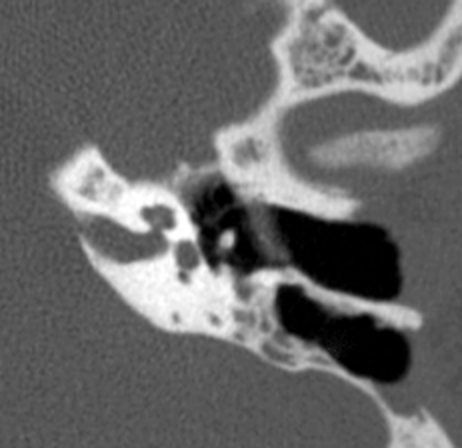
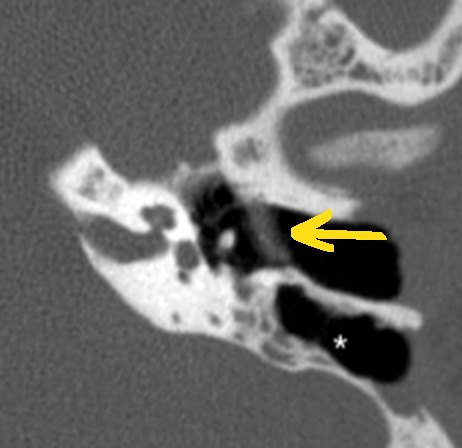
Cholestéatome : BDE zone la plus fragile, technique ouverte (micro-caisse, cavité d'évidement), tracés de l'auteur pour technique fermée, plastie et extension CSC/tegmen
Claude-Session: https://claude.ai/code/session_01XRUNcZaE25We66fu1uYoPm

Changed region(s): [[0.6061, 0.4688, 0.8485, 0.5625], [0.697, 0.75, 0.7576, 0.7812]]

diff --git a/fiches/cholesteatome.html b/fiches/cholesteatome.html
@@ -12,7 +12,7 @@
   <link rel="stylesheet" href="../styles.css?v=20261022235000">
   <link rel="stylesheet" href="../fiche.css?v=20261012150000">
   <link rel="stylesheet" href="../schemas/cavum.css?v=20261024100000">
-  <link rel="stylesheet" href="../schemas/cholesteatome.css?v=20261026120000">
+  <link rel="stylesheet" href="../schemas/cholesteatome.css?v=20261026200000">
   <script type="importmap">{ "imports": { "three": "../vendor/three-0.170.0/three.module.min.js", "three/addons/": "../vendor/three-0.170.0/addons/" } }</script>
 </head>
 <body class="fiche-page">
@@ -248,8 +248,12 @@
             <!-- FIG:omc-chaine-noyee|Chaîne ossiculaire « noyée » : même densité que l'épanchement ou la muqueuse épaissie. --><figure class="ch-fig"><svg viewBox="0 0 257 234" role="img" aria-label="Chaîne ossiculaire « noyée » : même densité que l&#x27;épanchement ou la muqueuse épaissie." font-family="Montserrat, Arial, sans-serif"><image href="cholesteatome/images/omc-chaine-noyee.jpg" width="257" height="234"/></svg><figcaption>Chaîne ossiculaire « noyée » : même densité que l'épanchement ou la muqueuse épaissie.</figcaption></figure><!-- /FIG -->
             <!-- FIG:tympanosclerose|Tympanosclérose : plaques pseudo-cartilagineuses ± calcifiées, ankylose possible de la chaîne. --><figure class="ch-fig" data-traces><svg viewBox="0 0 317 326" role="img" aria-label="Tympanosclérose : plaques calcifiées sur la chaîne et les parois de la caisse" font-family="Montserrat, Arial, sans-serif"><image href="cholesteatome/images/tympanosclerose.jpg" width="317" height="326"/><g class="ch-traces"><circle cx="106" cy="114" r="30" fill="none" stroke="#000" stroke-opacity=".5" stroke-width="4.2"/><circle cx="106" cy="114" r="30" fill="none" stroke="#c8102e" stroke-width="2.2"/><circle cx="118" cy="157" r="21" fill="none" stroke="#000" stroke-opacity=".5" stroke-width="4.2"/><circle cx="118" cy="157" r="21" fill="none" stroke="#f2ab2f" stroke-width="2.2"/><circle cx="178" cy="169" r="21" fill="none" stroke="#000" stroke-opacity=".5" stroke-width="4.2"/><circle cx="178" cy="169" r="21" fill="none" stroke="#3c67b8" stroke-width="2.2"/><text x="150" y="312" font-size="13" font-weight="800" fill="#fff" stroke="#000" stroke-width="3" paint-order="stroke" text-anchor="middle">plaques calcifiées</text></g></svg><figcaption>Tympanosclérose : plaques pseudo-cartilagineuses ± calcifiées, ankylose possible de la chaîne.</figcaption></figure><!-- /FIG -->
           </div>
-          <div class="callout callout-warn">
-            <p><mark class="k-ddx">La longue apophyse de l'enclume</mark> est la zone la plus fragile : elle peut être lysée <b>même dans une OMC non cholestéatomateuse</b>.</p>
+          <div class="ch-bde">
+            <div class="callout callout-warn"><p class="nodes-title">Information capitale</p><p><mark class="k-grave">BDE (branche descendante de l'enclume) : zone la plus fragile.</mark> Elle est atteinte <b>même en cas d'OMC non cholestéatomateuse</b> : une lyse de la BDE ne suffit pas à affirmer un cholestéatome.</p></div>
+            <div class="ch-figs ch-figs-2">
+              <!-- FIG:bde-pre-lyse|Involution fibreuse de la BDE (pré-lyse). --><figure class="ch-fig"><svg viewBox="0 0 298 227" role="img" aria-label="Involution fibreuse de la BDE (pré-lyse)." font-family="Montserrat, Arial, sans-serif"><image href="cholesteatome/images/bde-pre-lyse.jpg" width="298" height="227"/></svg><figcaption>Involution fibreuse de la BDE (pré-lyse).</figcaption></figure><!-- /FIG -->
+              <!-- FIG:bde-discontinuite|Discontinuité entre l'arche stapédienne et la BDE. --><figure class="ch-fig"><svg viewBox="0 0 213 169" role="img" aria-label="Discontinuité entre l&#x27;arche stapédienne et la BDE." font-family="Montserrat, Arial, sans-serif"><image href="cholesteatome/images/bde-discontinuite.jpg" width="213" height="169"/></svg><figcaption>Discontinuité entre l'arche stapédienne et la BDE.</figcaption></figure><!-- /FIG -->
+            </div>
           </div>
         </section>
 
@@ -330,7 +334,7 @@
           </div>
           <div class="ch-risque">
             <div class="ch-risque-txt"><h3>Tegmen tympani et antri</h3><p>Une brèche doit être vue sur <b>plusieurs coupes contiguës</b>, <b>au contact</b> de la masse, et <b>comparée au côté opposé</b>. Vraie brèche : <mark class="k-grave">méningocèle</mark>, réaction méningée, complication intracrânienne.</p></div>
-            <div class="ch-figs ch-figs-1"><!-- FIG:tegmen-tdm-2|Lyse du tegmen. --><figure class="ch-fig" data-traces><svg viewBox="0 0 208 108" role="img" aria-label="Lyse du tegmen" font-family="Montserrat, Arial, sans-serif"><image href="cholesteatome/images/tegmen-tdm-2.jpg" width="208" height="108"/><g class="ch-traces"><path d="M55.0 22.0 L66.0 23.0 L78.0 24.0" fill="none" stroke="#000" stroke-opacity=".5" stroke-width="5" stroke-linejoin="round" stroke-linecap="round"/><path d="M55.0 22.0 L66.0 23.0 L78.0 24.0" fill="none" stroke="#3c67b8" stroke-width="3" stroke-linejoin="round" stroke-linecap="round"/><g><rect x="29.9" y="0.0" width="80.2" height="16.0" rx="8.0" fill="#3c67b8" stroke="#fff" stroke-width="1.2"/><text x="70" y="11.6" font-size="10" font-weight="800" fill="#fff" text-anchor="middle">tegmen lysé</text></g></g></svg><figcaption>Lyse du tegmen.</figcaption></figure><!-- /FIG --></div>
+            <div class="ch-figs ch-figs-1"><!-- FIG:tegmen-tdm-2|Lyse du tegmen. --><figure class="ch-fig" data-traces><svg viewBox="0 0 208 108" role="img" aria-label="Extension au tegmen (tracé de l&#x27;auteur)" font-family="Montserrat, Arial, sans-serif"><image href="cholesteatome/images/tegmen-tdm-2.jpg" width="208" height="108"/><g class="ch-traces"><path d="M94.2 21.5 L95.9 21.6 L98.2 21.2 L100.6 21.0 L103.0 21.1 L105.2 21.1 L107.3 21.4 L109.5 22.0 L112.0 22.4 L114.4 22.8 L116.2 23.0 L117.6 23.1 L119.3 22.9 L121.3 22.9 L123.0 23.0" fill="none" stroke="#000" stroke-opacity=".5" stroke-width="5" stroke-linejoin="round" stroke-linecap="round"/><path d="M94.2 21.5 L95.9 21.6 L98.2 21.2 L100.6 21.0 L103.0 21.1 L105.2 21.1 L107.3 21.4 L109.5 22.0 L112.0 22.4 L114.4 22.8 L116.2 23.0 L117.6 23.1 L119.3 22.9 L121.3 22.9 L123.0 23.0" fill="none" stroke="#3c67b8" stroke-width="3" stroke-linejoin="round" stroke-linecap="round"/><g><rect x="43.1" y="1.0" width="129.8" height="16.0" rx="8.0" fill="#3c67b8" stroke="#fff" stroke-width="1.2"/><text x="108" y="12.6" font-size="10" font-weight="800" fill="#fff" text-anchor="middle">extension au tegmen</text></g></g></svg><figcaption>Lyse du tegmen.</figcaption></figure><!-- /FIG --></div>
           </div>
           <div class="ch-risque">
             <div class="ch-risque-txt"><h3>Labyrinthe : fistule</h3><p>Disparition de la coque osseuse au contact du cholestéatome, surtout du <mark class="k-grave">canal semi-circulaire latéral</mark> (labyrinthe membraneux à nu). Préciser le canal et la longueur. IRM : amputation du signal liquidien en T2 ; <b>rehaussement</b> = labyrinthite. Un <b>vertige</b> justifie l'IRM même si la TDM est douteuse.</p></div>
@@ -417,8 +421,8 @@
         <section class="fsec" id="post-op" style="--c: var(--plum)">
           <h2 class="fsec-title"><span class="fnum">X</span>Après chirurgie</h2>
           <div class="ch-deux">
-            <div class="fcard"><h3>Technique fermée</h3><p>Cholestéatome limité. Abord mastoïdien postérieur, <b>paroi postérieure et supérieure du conduit conservée</b>, greffe tympanique souvent cartilagineuse. Résidu possible : <b>surveillance</b>.</p><div class="ch-figs ch-figs-2"><!-- FIG:technique-fermee-1|Technique fermée. --><figure class="ch-fig" data-traces><svg viewBox="0 0 231 224" role="img" aria-label="Tympanoplastie en technique fermée" font-family="Montserrat, Arial, sans-serif"><image href="cholesteatome/images/technique-fermee-1.jpg" width="231" height="224"/><g class="ch-traces"><path d="M170.0 165.0 L171.6 168.8 L175.7 169.1 L172.6 171.8 L173.5 175.9 L170.0 173.7 L166.5 175.9 L167.4 171.8 L164.3 169.1 L168.4 168.8Z" fill="#f2ab2f" stroke="#000" stroke-opacity=".6" stroke-width="1"/><g><rect x="97.5" y="202.0" width="105.0" height="16.0" rx="8.0" fill="#f2ab2f" stroke="#fff" stroke-width="1.2"/><text x="150" y="213.6" font-size="10" font-weight="800" fill="#fff" text-anchor="middle">caisse ré-aérée</text></g></g></svg><figcaption>Technique fermée.</figcaption></figure><!-- /FIG --><!-- FIG:greffe-cartilage|Greffe cartilagineuse. --><figure class="ch-fig" data-traces><svg viewBox="0 0 274 230" role="img" aria-label="Greffe tympanique cartilagineuse" font-family="Montserrat, Arial, sans-serif"><image href="cholesteatome/images/greffe-cartilage.jpg" width="274" height="230"/><g class="ch-traces"><path d="M96.0 52.0 L87.9 81.1" stroke="#000" stroke-opacity=".55" stroke-width="4.6" stroke-linecap="round" fill="none"/><path d="M96.0 52.0 L87.9 81.1" stroke="#f2ab2f" stroke-width="2.4" stroke-linecap="round" fill="none"/><path d="M86.0 88.0 L84.4 79.1 L91.9 81.2Z" fill="#f2ab2f" stroke="#000" stroke-opacity=".55" stroke-width="1"/></g></svg><figcaption>Greffe cartilagineuse.</figcaption></figure><!-- /FIG --></div></div>
-            <div class="fcard"><h3>Technique ouverte</h3><p>Cholestéatome étendu. <b>Cavité d'évidement pétro-mastoïdienne</b> (paroi du conduit enlevée), souvent avec micro-caisse.</p><div class="ch-figs ch-figs-2"><!-- FIG:technique-ouverte-1|Cavité d'évidement. --><figure class="ch-fig"><svg viewBox="0 0 229 217" role="img" aria-label="Cavité d&#x27;évidement." font-family="Montserrat, Arial, sans-serif"><image href="cholesteatome/images/technique-ouverte-1.jpg" width="229" height="217"/></svg><figcaption>Cavité d'évidement.</figcaption></figure><!-- /FIG --><!-- FIG:ossiculoplastie|Ossiculoplastie. --><figure class="ch-fig" data-traces><svg viewBox="0 0 227 123" role="img" aria-label="Ossiculoplastie : prothèse entre tympan et étrier" font-family="Montserrat, Arial, sans-serif"><image href="cholesteatome/images/ossiculoplastie.jpg" width="227" height="123"/><g class="ch-traces"><path d="M108.0 47.0 L122.0 50.0 L116.0 66.0 L108.0 82.0 L100.0 79.0 L104.0 62.0 Z" fill="none" stroke="#000" stroke-opacity=".5" stroke-width="4.6" stroke-linejoin="round" stroke-linecap="round"/><path d="M108.0 47.0 L122.0 50.0 L116.0 66.0 L108.0 82.0 L100.0 79.0 L104.0 62.0 Z" fill="none" stroke="#f18d25" stroke-width="2.6" stroke-linejoin="round" stroke-linecap="round"/><g><rect x="71.2" y="96.0" width="61.6" height="16.0" rx="8.0" fill="#f18d25" stroke="#fff" stroke-width="1.2"/><text x="102" y="107.6" font-size="10" font-weight="800" fill="#fff" text-anchor="middle">prothèse</text></g></g></svg><figcaption>Ossiculoplastie.</figcaption></figure><!-- /FIG --></div></div>
+            <div class="fcard"><h3>Technique fermée</h3><p>Cholestéatome limité. Abord mastoïdien postérieur, <b>paroi postérieure et supérieure du conduit conservée</b>, greffe tympanique souvent cartilagineuse. Résidu possible : <b>surveillance</b>.</p><div class="ch-figs ch-figs-2"><!-- FIG:technique-fermee-1|Technique fermée (axial) : paroi postérieure du conduit conservée (CAE), abord mastoïdien postérieur. --><figure class="ch-fig" data-traces><svg viewBox="0 0 231 224" role="img" aria-label="Technique fermée : paroi postérieure du conduit conservée, abord mastoïdien postérieur (flèche et tracés de l&#x27;auteur)" font-family="Montserrat, Arial, sans-serif"><image href="cholesteatome/images/technique-fermee-1.jpg" width="231" height="224"/><g class="ch-traces"><path d="M229.0 173.0 L218.9 162.3" stroke="#000" stroke-opacity=".55" stroke-width="4.6" stroke-linecap="round" fill="none"/><path d="M229.0 173.0 L218.9 162.3" stroke="#f2ab2f" stroke-width="2.4" stroke-linecap="round" fill="none"/><path d="M214.0 157.0 L222.4 160.2 L216.7 165.6Z" fill="#f2ab2f" stroke="#000" stroke-opacity=".55" stroke-width="1"/><path d="M229.0 208.0 L212.6 194.6" stroke="#000" stroke-opacity=".55" stroke-width="4.6" stroke-linecap="round" fill="none"/><path d="M229.0 208.0 L212.6 194.6" stroke="#d63f4c" stroke-width="2.4" stroke-linecap="round" fill="none"/><path d="M207.0 190.0 L215.8 192.1 L210.8 198.2Z" fill="#d63f4c" stroke="#000" stroke-opacity=".55" stroke-width="1"/><g><rect x="-3.6" y="192.0" width="111.2" height="16.0" rx="8.0" fill="#f2ab2f" stroke="#fff" stroke-width="1.2"/><text x="52" y="203.6" font-size="10" font-weight="800" fill="#fff" text-anchor="middle">CAE : postérieur</text></g><g><rect x="-9.8" y="206.0" width="123.6" height="16.0" rx="8.0" fill="#d63f4c" stroke="#fff" stroke-width="1.2"/><text x="52" y="217.6" font-size="10" font-weight="800" fill="#fff" text-anchor="middle">abord : postérieur</text></g></g></svg><figcaption>Technique fermée (axial) : paroi postérieure du conduit conservée (CAE), abord mastoïdien postérieur.</figcaption></figure><!-- /FIG --><!-- FIG:technique-fermee-2|Technique fermée (coronal) : greffe tympanique, paroi supérieure du conduit conservée. --><figure class="ch-fig" data-traces><svg viewBox="0 0 301 161" role="img" aria-label="Technique fermée, coronal : greffe tympanique, paroi supérieure conservée" font-family="Montserrat, Arial, sans-serif"><image href="cholesteatome/images/technique-fermee-2.jpg" width="301" height="161"/><g class="ch-traces"><path d="M297.0 47.0 L277.4 56.8" stroke="#000" stroke-opacity=".55" stroke-width="4.6" stroke-linecap="round" fill="none"/><path d="M297.0 47.0 L277.4 56.8" stroke="#d63f4c" stroke-width="2.4" stroke-linecap="round" fill="none"/><path d="M271.0 60.0 L276.5 52.9 L280.0 59.9Z" fill="#d63f4c" stroke="#000" stroke-opacity=".55" stroke-width="1"/><path d="M292.0 112.0 L260.8 100.5" stroke="#000" stroke-opacity=".55" stroke-width="4.6" stroke-linecap="round" fill="none"/><path d="M292.0 112.0 L260.8 100.5" stroke="#f2ab2f" stroke-width="2.4" stroke-linecap="round" fill="none"/><path d="M254.0 98.0 L263.0 97.1 L260.3 104.5Z" fill="#f2ab2f" stroke="#000" stroke-opacity=".55" stroke-width="1"/><path d="M188.0 141.0 L183.0 128.0 L176.0 115.0" fill="none" stroke="#000" stroke-opacity=".5" stroke-width="3.4" stroke-linejoin="round" stroke-linecap="round"/><path d="M188.0 141.0 L183.0 128.0 L176.0 115.0" fill="none" stroke="#fff" stroke-width="1.4" stroke-linejoin="round" stroke-linecap="round"/><path d="M176.0 115.0 L172.5 110.6" stroke="#000" stroke-opacity=".55" stroke-width="3.6" stroke-linecap="round" fill="none"/><path d="M176.0 115.0 L172.5 110.6" stroke="#fff" stroke-width="1.4" stroke-linecap="round" fill="none"/><path d="M168.0 105.0 L176.1 108.9 L170.0 113.8Z" fill="#fff" stroke="#000" stroke-opacity=".55" stroke-width="1"/><g><rect x="137.3" y="142.0" width="117.4" height="16.0" rx="8.0" fill="#f2ab2f" stroke="#fff" stroke-width="1.2"/><text x="196" y="153.6" font-size="10" font-weight="800" fill="#fff" text-anchor="middle">greffe tympanique</text></g><g><rect x="-8.5" y="4.0" width="105.0" height="16.0" rx="8.0" fill="#f2ab2f" stroke="#fff" stroke-width="1.2"/><text x="44" y="15.6" font-size="10" font-weight="800" fill="#fff" text-anchor="middle">CAE : supérieur</text></g><g><rect x="-14.7" y="18.0" width="117.4" height="16.0" rx="8.0" fill="#d63f4c" stroke="#fff" stroke-width="1.2"/><text x="44" y="29.6" font-size="10" font-weight="800" fill="#fff" text-anchor="middle">abord : supérieur</text></g></g></svg><figcaption>Technique fermée (coronal) : greffe tympanique, paroi supérieure du conduit conservée.</figcaption></figure><!-- /FIG --></div></div>
+            <div class="fcard"><h3>Technique ouverte</h3><p>Cholestéatome étendu. <b>Cavité d'évidement pétro-mastoïdienne</b> (paroi du conduit enlevée), souvent avec micro-caisse.</p><div class="ch-figs ch-figs-2"><!-- FIG:technique-ouverte-1|Cavité d'évidement pétro-mastoïdienne (vert). --><figure class="ch-fig" data-traces><svg viewBox="0 0 229 217" role="img" aria-label="Technique ouverte : cavité d&#x27;évidement pétro-mastoïdienne (vert)" font-family="Montserrat, Arial, sans-serif"><image href="cholesteatome/images/technique-ouverte-1.jpg" width="229" height="217"/><g class="ch-traces"><path d="M31.7 70.1 L28.8 67.0 L25.6 64.1 L22.4 61.8 L20.3 61.5 L20.5 63.9 L22.4 67.4 L25.0 70.7 L28.3 73.3 L32.3 75.3 L36.4 77.2 L40.3 78.8 L43.7 79.1 L46.9 78.7 L50.9 78.9 L55.0 79.7 L58.1 80.5 L60.1 81.0 L61.7 80.7" fill="none" stroke="#000" stroke-opacity=".5" stroke-width="5" stroke-linejoin="round" stroke-linecap="round"/><path d="M31.7 70.1 L28.8 67.0 L25.6 64.1 L22.4 61.8 L20.3 61.5 L20.5 63.9 L22.4 67.4 L25.0 70.7 L28.3 73.3 L32.3 75.3 L36.4 77.2 L40.3 78.8 L43.7 79.1 L46.9 78.7 L50.9 78.9 L55.0 79.7 L58.1 80.5 L60.1 81.0 L61.7 80.7" fill="none" stroke="#2f8a57" stroke-width="3" stroke-linejoin="round" stroke-linecap="round"/><path d="M87.7 115.7 L88.9 113.4 L87.6 113.0 L84.9 114.8 L83.3 117.4 L82.9 119.7 L82.1 122.4 L81.1 125.2 L80.8 127.7 L80.4 130.6 L79.8 134.2 L79.1 137.6 L78.0 140.4 L76.4 143.0 L74.4 144.5 L72.2 145.1 L69.8 146.1 L66.9 146.9 L63.7 146.6 L60.6 146.2 L57.4 146.2 L54.1 146.3 L50.6 146.9 L46.9 147.6 L43.5 147.7 L39.8 147.5 L36.0 147.6 L32.8 147.9" fill="none" stroke="#000" stroke-opacity=".5" stroke-width="5" stroke-linejoin="round" stroke-linecap="round"/><path d="M87.7 115.7 L88.9 113.4 L87.6 113.0 L84.9 114.8 L83.3 117.4 L82.9 119.7 L82.1 122.4 L81.1 125.2 L80.8 127.7 L80.4 130.6 L79.8 134.2 L79.1 137.6 L78.0 140.4 L76.4 143.0 L74.4 144.5 L72.2 145.1 L69.8 146.1 L66.9 146.9 L63.7 146.6 L60.6 146.2 L57.4 146.2 L54.1 146.3 L50.6 146.9 L46.9 147.6 L43.5 147.7 L39.8 147.5 L36.0 147.6 L32.8 147.9" fill="none" stroke="#2f8a57" stroke-width="3" stroke-linejoin="round" stroke-linecap="round"/><g><rect x="-1.8" y="92.0" width="123.6" height="16.0" rx="8.0" fill="#2f8a57" stroke="#fff" stroke-width="1.2"/><text x="60" y="103.6" font-size="10" font-weight="800" fill="#fff" text-anchor="middle">cavité d&#x27;évidement</text></g></g></svg><figcaption>Cavité d'évidement pétro-mastoïdienne (vert).</figcaption></figure><!-- /FIG --><!-- FIG:ossiculoplastie|Micro-caisse (orange) et cavité d'évidement pétro-mastoïdienne (vert). --><figure class="ch-fig" data-traces><svg viewBox="0 0 227 123" role="img" aria-label="Technique ouverte : micro-caisse (orange) et cavité d&#x27;évidement pétro-mastoïdienne (vert)" font-family="Montserrat, Arial, sans-serif"><image href="cholesteatome/images/ossiculoplastie.jpg" width="227" height="123"/><g class="ch-traces"><path d="M131.6 51.0 L132.4 48.3 L132.8 45.6 L133.0 43.0 L134.3 40.1 L137.0 37.0 L140.1 34.3 L143.6 32.7 L147.0 33.2 L149.9 34.7 L152.8 36.1 L156.0 38.0 L159.0 40.8 L161.8 43.6 L164.6 45.4 L167.6 46.8 L170.4 48.2 L172.7 48.9 L175.1 49.3 L178.2 49.8 L181.8 50.0 L185.0 49.9 L188.4 49.6" fill="none" stroke="#000" stroke-opacity=".5" stroke-width="5" stroke-linejoin="round" stroke-linecap="round"/><path d="M131.6 51.0 L132.4 48.3 L132.8 45.6 L133.0 43.0 L134.3 40.1 L137.0 37.0 L140.1 34.3 L143.6 32.7 L147.0 33.2 L149.9 34.7 L152.8 36.1 L156.0 38.0 L159.0 40.8 L161.8 43.6 L164.6 45.4 L167.6 46.8 L170.4 48.2 L172.7 48.9 L175.1 49.3 L178.2 49.8 L181.8 50.0 L185.0 49.9 L188.4 49.6" fill="none" stroke="#2f8a57" stroke-width="3" stroke-linejoin="round" stroke-linecap="round"/><path d="M111.6 66.7 L112.5 63.6 L112.6 60.5 L113.2 57.7 L114.9 55.4 L117.7 53.1 L120.8 51.3 L123.8 50.9 L126.1 52.4 L127.4 55.0 L127.9 58.2 L127.9 61.3 L127.1 64.4 L125.4 67.2 L122.8 69.8 L119.9 72.5 L117.4 75.5 L115.2 78.7 L113.0 81.8 L110.5 84.5 L107.6 86.3 L104.7 86.4 L102.4 84.7 L101.4 82.0 L102.0 78.8 L103.8 75.8 L106.5 72.8 L109.4 69.8 Z" fill="none" stroke="#000" stroke-opacity=".5" stroke-width="5" stroke-linejoin="round" stroke-linecap="round"/><path d="M111.6 66.7 L112.5 63.6 L112.6 60.5 L113.2 57.7 L114.9 55.4 L117.7 53.1 L120.8 51.3 L123.8 50.9 L126.1 52.4 L127.4 55.0 L127.9 58.2 L127.9 61.3 L127.1 64.4 L125.4 67.2 L122.8 69.8 L119.9 72.5 L117.4 75.5 L115.2 78.7 L113.0 81.8 L110.5 84.5 L107.6 86.3 L104.7 86.4 L102.4 84.7 L101.4 82.0 L102.0 78.8 L103.8 75.8 L106.5 72.8 L109.4 69.8 Z" fill="none" stroke="#f18d25" stroke-width="3" stroke-linejoin="round" stroke-linecap="round"/><path d="M172.7 87.7 L169.4 86.2 L165.5 84.8 L161.1 84.3 L156.4 84.7 L151.4 85.7 L147.3 87.4 L143.9 89.8 L140.3 92.1 L136.0 93.8 L131.7 95.0 L127.5 95.2 L123.0 94.4 L118.8 92.8 L116.4 90.9 L115.5 88.7" fill="none" stroke="#000" stroke-opacity=".5" stroke-width="5" stroke-linejoin="round" stroke-linecap="round"/><path d="M172.7 87.7 L169.4 86.2 L165.5 84.8 L161.1 84.3 L156.4 84.7 L151.4 85.7 L147.3 87.4 L143.9 89.8 L140.3 92.1 L136.0 93.8 L131.7 95.0 L127.5 95.2 L123.0 94.4 L118.8 92.8 L116.4 90.9 L115.5 88.7" fill="none" stroke="#2f8a57" stroke-width="3" stroke-linejoin="round" stroke-linecap="round"/><g><rect x="26.8" y="92.0" width="86.4" height="16.0" rx="8.0" fill="#f18d25" stroke="#fff" stroke-width="1.2"/><text x="70" y="103.6" font-size="10" font-weight="800" fill="#fff" text-anchor="middle">micro-caisse</text></g><g><rect x="98.2" y="6.0" width="123.6" height="16.0" rx="8.0" fill="#2f8a57" stroke="#fff" stroke-width="1.2"/><text x="160" y="17.6" font-size="10" font-weight="800" fill="#fff" text-anchor="middle">cavité d&#x27;évidement</text></g></g></svg><figcaption>Micro-caisse (orange) et cavité d'évidement pétro-mastoïdienne (vert).</figcaption></figure><!-- /FIG --><!-- FIG:technique-ouverte-2|Autre plan : micro-caisse (orange), cavité d'évidement (vert). --><figure class="ch-fig" data-traces><svg viewBox="0 0 173 176" role="img" aria-label="Technique ouverte, autre plan : micro-caisse (orange) et cavité d&#x27;évidement (vert)" font-family="Montserrat, Arial, sans-serif"><image href="cholesteatome/images/technique-ouverte-2.jpg" width="173" height="176"/><g class="ch-traces"><path d="M102.8 69.7 L105.5 70.5 L108.4 71.8 L111.4 73.2 L114.7 75.0 L118.0 76.6 L121.2 76.7 L124.4 76.5 L127.6 76.8 L130.7 76.3 L133.7 74.8 L136.3 73.2 L138.8 71.4 L140.4 70.3 L141.4 70.5" fill="none" stroke="#000" stroke-opacity=".5" stroke-width="5" stroke-linejoin="round" stroke-linecap="round"/><path d="M102.8 69.7 L105.5 70.5 L108.4 71.8 L111.4 73.2 L114.7 75.0 L118.0 76.6 L121.2 76.7 L124.4 76.5 L127.6 76.8 L130.7 76.3 L133.7 74.8 L136.3 73.2 L138.8 71.4 L140.4 70.3 L141.4 70.5" fill="none" stroke="#2f8a57" stroke-width="3" stroke-linejoin="round" stroke-linecap="round"/><circle cx="88.4" cy="70.2" r="3" fill="#f18d25" stroke="#000" stroke-opacity=".5"/><path d="M92.8 93.8 L96.7 93.9 L100.5 95.4 L103.6 98.1 L105.7 101.9 L106.2 106.4 L106.1 111.0 L106.6 114.7 L107.7 117.7 L109.2 120.8 L111.3 124.2 L113.5 126.3 L115.5 127.0 L117.9 127.1 L121.6 127.3 L126.4 127.6 L130.6 129.3 L133.8 132.0 L136.5 134.2 L138.9 134.8 L141.3 135.5 L143.7 137.4 L144.4 139.0 L142.8 138.8" fill="none" stroke="#000" stroke-opacity=".5" stroke-width="5" stroke-linejoin="round" stroke-linecap="round"/><path d="M92.8 93.8 L96.7 93.9 L100.5 95.4 L103.6 98.1 L105.7 101.9 L106.2 106.4 L106.1 111.0 L106.6 114.7 L107.7 117.7 L109.2 120.8 L111.3 124.2 L113.5 126.3 L115.5 127.0 L117.9 127.1 L121.6 127.3 L126.4 127.6 L130.6 129.3 L133.8 132.0 L136.5 134.2 L138.9 134.8 L141.3 135.5 L143.7 137.4 L144.4 139.0 L142.8 138.8" fill="none" stroke="#2f8a57" stroke-width="3" stroke-linejoin="round" stroke-linecap="round"/><g><rect x="26.8" y="42.0" width="86.4" height="16.0" rx="8.0" fill="#f18d25" stroke="#fff" stroke-width="1.2"/><text x="70" y="53.6" font-size="10" font-weight="800" fill="#fff" text-anchor="middle">micro-caisse</text></g><g><rect x="38.2" y="154.0" width="123.6" height="16.0" rx="8.0" fill="#2f8a57" stroke="#fff" stroke-width="1.2"/><text x="100" y="165.6" font-size="10" font-weight="800" fill="#fff" text-anchor="middle">cavité d&#x27;évidement</text></g></g></svg><figcaption>Autre plan : micro-caisse (orange), cavité d'évidement (vert).</figcaption></figure><!-- /FIG --></div></div>
           </div>
           <div class="ch-deux">
             <div class="fcard ch-proto"><p class="ch-proto-titre">TDM</p><ul class="fl"><li>Première imagerie après chirurgie si question d'<b>ossiculoplastie</b>, de <b>tegmen</b>, de complication osseuse.</li><li><mark class="k-grave">Récidive / résidu</mark> : opacité <b>ronde</b> (perle), <b>bords convexes dans tous les plans</b>.</li><li><mark class="k-sign">Pas de cholestéatome</mark> : aucune opacité, ou opacité en cadre / localisée à <b>bords concaves</b>.</li><li>Les <b>reconstructions</b> coronales et sagittales départagent.</li></ul></div>
@@ -433,8 +437,8 @@
           <div class="ch-deux">
             <div class="fcard"><h3>Cas : extension intrapétreuse</h3><p>Cholestéatome étendu au labyrinthe (CSC latéral) avec lyse du tegmen : chirurgie complexe, plastie du tegmen, lambeau graisseux. Au contrôle, opacité <b>non rehaussée</b> et en <b>hypersignal de diffusion</b> : récidive.</p></div>
             <div class="ch-figs ch-figs-2">
-              <!-- FIG:tegmen-tdm-1|Extension au CSC latéral. --><figure class="ch-fig" data-traces><svg viewBox="0 0 228 197" role="img" aria-label="Extension labyrinthique (canal semi-circulaire latéral)" font-family="Montserrat, Arial, sans-serif"><image href="cholesteatome/images/tegmen-tdm-1.jpg" width="228" height="197"/><g class="ch-traces"><path d="M64.0 90.0 L72.0 84.0 L80.0 79.0 L87.0 73.0" fill="none" stroke="#000" stroke-opacity=".5" stroke-width="5" stroke-linejoin="round" stroke-linecap="round"/><path d="M64.0 90.0 L72.0 84.0 L80.0 79.0 L87.0 73.0" fill="none" stroke="#f18d25" stroke-width="3" stroke-linejoin="round" stroke-linecap="round"/><g><rect x="35.6" y="120.0" width="160.8" height="16.0" rx="8.0" fill="#f18d25" stroke="#fff" stroke-width="1.2"/><text x="116" y="131.6" font-size="10" font-weight="800" fill="#fff" text-anchor="middle">extension au CSC latéral</text></g></g></svg><figcaption>Extension au CSC latéral.</figcaption></figure><!-- /FIG -->
-              <!-- FIG:tegmen-irm-plastie|Plastie du tegmen, lambeau graisseux. --><figure class="ch-fig" data-traces><svg viewBox="0 0 208 174" role="img" aria-label="Après chirurgie : plastie du tegmen et lambeau graisseux" font-family="Montserrat, Arial, sans-serif"><image href="cholesteatome/images/tegmen-irm-plastie.jpg" width="208" height="174"/><g class="ch-traces"><path d="M56.0 34.0 L66.0 36.0 L72.0 38.0" fill="none" stroke="#000" stroke-opacity=".5" stroke-width="5" stroke-linejoin="round" stroke-linecap="round"/><path d="M56.0 34.0 L66.0 36.0 L72.0 38.0" fill="none" stroke="#c8102e" stroke-width="3" stroke-linejoin="round" stroke-linecap="round"/><g><rect x="11.3" y="12.0" width="117.4" height="16.0" rx="8.0" fill="#c8102e" stroke="#fff" stroke-width="1.2"/><text x="70" y="23.6" font-size="10" font-weight="800" fill="#fff" text-anchor="middle">plastie du tegmen</text></g><path d="M32.0 102.0 L38.0 80.0 L46.0 60.0 L62.0 52.0 L76.0 52.0 L80.0 58.0 L70.0 58.0 L56.0 64.0 L50.0 82.0 L40.0 102.0" fill="none" stroke="#000" stroke-opacity=".5" stroke-width="4.4" stroke-linejoin="round" stroke-linecap="round"/><path d="M32.0 102.0 L38.0 80.0 L46.0 60.0 L62.0 52.0 L76.0 52.0 L80.0 58.0 L70.0 58.0 L56.0 64.0 L50.0 82.0 L40.0 102.0" fill="none" stroke="#2a9d8f" stroke-width="2.4" stroke-linejoin="round" stroke-linecap="round"/><g><rect x="5.3" y="108.0" width="117.4" height="16.0" rx="8.0" fill="#2a9d8f" stroke="#fff" stroke-width="1.2"/><text x="64" y="119.6" font-size="10" font-weight="800" fill="#fff" text-anchor="middle">lambeau graisseux</text></g></g></svg><figcaption>Plastie du tegmen, lambeau graisseux.</figcaption></figure><!-- /FIG -->
+              <!-- FIG:tegmen-tdm-1|Extension au CSC latéral. --><figure class="ch-fig" data-traces><svg viewBox="0 0 228 197" role="img" aria-label="Extension labyrinthique au canal semi-circulaire latéral (tracé de l&#x27;auteur)" font-family="Montserrat, Arial, sans-serif"><image href="cholesteatome/images/tegmen-tdm-1.jpg" width="228" height="197"/><g class="ch-traces"><path d="M113.6 92.1 L114.6 92.5 L113.8 94.4 L111.7 96.7 L109.5 99.0 L107.2 101.2 L104.9 103.4 L102.4 105.3 L99.9 107.4 L97.8 109.9 L95.9 112.5 L93.8 114.8 L91.4 116.2 L88.8 116.8" fill="none" stroke="#000" stroke-opacity=".5" stroke-width="5" stroke-linejoin="round" stroke-linecap="round"/><path d="M113.6 92.1 L114.6 92.5 L113.8 94.4 L111.7 96.7 L109.5 99.0 L107.2 101.2 L104.9 103.4 L102.4 105.3 L99.9 107.4 L97.8 109.9 L95.9 112.5 L93.8 114.8 L91.4 116.2 L88.8 116.8" fill="none" stroke="#f18d25" stroke-width="3" stroke-linejoin="round" stroke-linecap="round"/><g><rect x="58.4" y="142.0" width="111.2" height="16.0" rx="8.0" fill="#f18d25" stroke="#fff" stroke-width="1.2"/><text x="114" y="153.6" font-size="10" font-weight="800" fill="#fff" text-anchor="middle">extension au CSC</text></g></g></svg><figcaption>Extension au CSC latéral.</figcaption></figure><!-- /FIG -->
+              <!-- FIG:tegmen-irm-plastie|Plastie du tegmen, lambeau graisseux. --><figure class="ch-fig" data-traces><svg viewBox="0 0 208 174" role="img" aria-label="Après chirurgie : plastie du tegmen et lambeau graisseux (tracés de l&#x27;auteur)" font-family="Montserrat, Arial, sans-serif"><image href="cholesteatome/images/tegmen-irm-plastie.jpg" width="208" height="174"/><g class="ch-traces"><g><rect x="25.3" y="18.0" width="117.4" height="16.0" rx="8.0" fill="#c8102e" stroke="#fff" stroke-width="1.2"/><text x="84" y="29.6" font-size="10" font-weight="800" fill="#fff" text-anchor="middle">plastie du tegmen</text></g><g><rect x="13.3" y="130.0" width="117.4" height="16.0" rx="8.0" fill="#2a9d8f" stroke="#fff" stroke-width="1.2"/><text x="72" y="141.6" font-size="10" font-weight="800" fill="#fff" text-anchor="middle">lambeau graisseux</text></g></g></svg><figcaption>Plastie du tegmen, lambeau graisseux.</figcaption></figure><!-- /FIG -->
             </div>
           </div>
         </section>

diff --git a/fiches/otospongiose.html b/fiches/otospongiose.html
@@ -11,7 +11,7 @@
   <link href="https://fonts.googleapis.com/css2?family=Montserrat:wght@400;500;600;700;800;900&family=Michroma&family=Permanent+Marker&display=swap" rel="stylesheet">
   <link rel="stylesheet" href="../styles.css?v=20261022235000">
   <link rel="stylesheet" href="../fiche.css?v=20261012150000">
-    <link rel="stylesheet" href="../schemas/cholesteatome.css?v=20261026120000">
+    <link rel="stylesheet" href="../schemas/cholesteatome.css?v=20261026200000">
   <link rel="stylesheet" href="../schemas/eu-tirads.css?v=20261026140000">
   <link rel="stylesheet" href="../schemas/otospongiose.css?v=20261026160000">
 </head>

diff --git a/schemas/cholesteatome.css b/schemas/cholesteatome.css
@@ -134,3 +134,6 @@
 }
 @media (prefers-reduced-motion: reduce) { .ch-chaine li { opacity: 1; transform: none; transition: none; } }
 @media print { .ch-outil:not(.ch-cr), .ch-onglets, .ch-lien-3d, .r3d { display: none; } .ch-panneau[hidden] { display: block !important; } }
+.ch-bde { display: grid; grid-template-columns: minmax(0, 1fr) minmax(0, 1.1fr); gap: 16px; align-items: center; }
+.ch-bde .callout { margin: 0; }
+@media (max-width: 900px) { .ch-bde { grid-template-columns: 1fr; } }

diff --git a/scripts/cholesteatome_figures.py b/scripts/cholesteatome_figures.py
@@ -7,10 +7,11 @@ positionnés dans les coordonnées du cliché d'origine (pixels, avant agrandiss
 Usage : python3 scripts/cholesteatome_figures.py
   réécrit, dans fiches/cholesteatome.html, le contenu entre <!-- FIG:id --> et <!-- /FIG:id -->.
 """
-import html, os, re, sys
+import html, json, os, re, sys
 
 RACINE = os.path.abspath(os.path.join(os.path.dirname(__file__), '..'))
 PAGE = os.path.join(RACINE, 'fiches', 'cholesteatome.html')
+VERT = '#2f8a57'
 TEAL, ORANGE, BLUE, RED, AMBER, PURPLE, INK, ROSE = '#2a9d8f', '#f18d25', '#3c67b8', '#c8102e', '#f2ab2f', '#7b3fa8', '#111114', '#d63f4c'
 
 # taille des clichés (pixels d'origine)
@@ -25,6 +26,7 @@ TAILLES = {
     'recidive-perle-1': (222, 205), 'recidive-perle-2': (237, 164), 'greffe-cartilage': (274, 230), 'greffe-horizontale': (217, 178), 'granulome-tdm': (280, 161), 'granulome-irm': (168, 191),
     'recidive-t2': (165, 130), 'recidive-t1': (191, 157), 'recidive-t1-tardif': (190, 162), 'fibro-t2': (212, 180), 'fibro-t1': (219, 203), 'fibro-t1-tardif': (226, 199),
     'tegmen-tdm-1': (228, 197), 'tegmen-tdm-2': (208, 108), 'tegmen-irm-t2': (201, 179), 'tegmen-irm-plastie': (208, 174), 'tegmen-irm-gado': (187, 184), 'tegmen-irm-diffusion': (217, 179),
+    'bde-pre-lyse': (298, 227), 'bde-discontinuite': (213, 169),
     'fistule-csc-lateral': (215, 179), 'fistule-csc-posterieur': (216, 179), 'fistule-promontoire-1': (156, 125), 'fistule-promontoire-2': (191, 143),
 }
 
@@ -118,8 +120,14 @@ FIG = {
     'sigmoide-anterieur-2': ('Sinus sigmoïde antérieur et superficiel', [etoile((178, 129), BLUE, 9)]),
     'irm-preop': ('IRM : effacement du signal liquidien au contact (fistule)', [
         trace([(150, 92), (162, 100), (166, 114), (160, 126)], AMBER, dash='4 3', w=3), fleche((157, 110), (176, 126), '#fff'), pastille(112, 162, 'extinction du signal', AMBER)]),
-    'technique-fermee-1': ('Tympanoplastie en technique fermée', [etoile((170, 171), AMBER, 6), pastille(150, 210, 'caisse ré-aérée', AMBER)]),
-    'ossiculoplastie': ('Ossiculoplastie : prothèse entre tympan et étrier', [trace([(108, 47), (122, 50), (116, 66), (108, 82), (100, 79), (104, 62)], ORANGE, ferme=True, w=2.6), pastille(102, 104, 'prothèse', ORANGE)]),
+    'technique-fermee-1': ('Technique fermée : paroi postérieure du conduit conservée, abord mastoïdien postérieur (flèche et tracés de l\'auteur)', [
+        fleche((214, 157), (229, 173), AMBER), fleche((207, 190), (229, 208), ROSE),
+        pastille(52, 200, 'CAE : postérieur', AMBER), pastille(52, 214, 'abord : postérieur', ROSE)]),
+    'technique-fermee-2': ('Technique fermée, coronal : greffe tympanique, paroi supérieure conservée', [
+        fleche((271, 60), (297, 47), ROSE), fleche((254, 98), (292, 112), AMBER),
+        trace([(188, 141), (183, 128), (176, 115)], '#fff', w=1.4), fleche((168, 105), (176, 115), '#fff', w=1.4),
+        pastille(196, 150, 'greffe tympanique', AMBER), pastille(44, 12, 'CAE : supérieur', AMBER), pastille(44, 26, 'abord : supérieur', ROSE)]),
+    'ossiculoplastie': ('Technique ouverte : micro-caisse (orange) et cavité d\'évidement pétro-mastoïdienne (vert)', 'ossiculoplastie'),
     'recidive-perle-1': ('Récidive : opacité ronde à bords convexes (perle)', [fleche((152, 73), (192, 32), AMBER)]),
     'recidive-perle-2': ('Récidive : perle de cholestéatome', [fleche((139, 51), (178, 12), AMBER)]),
     'greffe-cartilage': ('Greffe tympanique cartilagineuse', [fleche((86, 88), (96, 52), AMBER)]),
@@ -131,9 +139,8 @@ FIG = {
     'fibro-t1-tardif': ('Tissu fibro-inflammatoire : prise de contraste tardive', [fleche((156, 92), (204, 118), AMBER), texte(6, 16, 'T1 gadolinium tardif')]),
     'tegmen-tdm-1': ('Extension labyrinthique (canal semi-circulaire latéral)', [trace([(64, 90), (72, 84), (80, 79), (87, 73)], ORANGE, w=3), pastille(116, 128, 'extension au CSC latéral', ORANGE)]),
     'tegmen-tdm-2': ('Lyse du tegmen', [trace([(55, 22), (66, 23), (78, 24)], BLUE, w=3), pastille(70, 8, 'tegmen lysé', BLUE)]),
-    'tegmen-irm-plastie': ('Après chirurgie : plastie du tegmen et lambeau graisseux', [
-        trace([(56, 34), (66, 36), (72, 38)], RED, w=3), pastille(70, 20, 'plastie du tegmen', RED),
-        trace([(32, 102), (38, 80), (46, 60), (62, 52), (76, 52), (80, 58), (70, 58), (56, 64), (50, 82), (40, 102)], TEAL, w=2.4), pastille(64, 116, 'lambeau graisseux', TEAL)]),
+    'tegmen-irm-plastie': ('Après chirurgie : plastie du tegmen et lambeau graisseux (tracés de l\'auteur)', [
+        pastille(84, 26, 'plastie du tegmen', RED), pastille(72, 138, 'lambeau graisseux', TEAL)]),
     'tegmen-irm-gado': ('T1 gadolinium semi-tardif : opacité non rehaussée', [cercle((74, 50), 14, PURPLE), pastille(74, 24, 'non rehaussée', PURPLE)]),
     'tegmen-irm-diffusion': ('Diffusion b1000 : hypersignal (cholestéatome)', [fleche((90, 88), (126, 118), AMBER)]),
     'fistule-csc-lateral': ('Fistule du canal semi-circulaire latéral', [fleche((111, 56), (134, 30), RED), pastille(160, 18, 'CSC latéral', RED)]),
@@ -141,6 +148,21 @@ FIG = {
     'fistule-promontoire-1': ('Fistule du promontoire (tour basal de la cochlée)', [fleche((61, 49), (89, 84), RED), pastille(100, 100, 'promontoire', RED)]),
     'fistule-promontoire-2': ('Fistule du promontoire, autre coupe', [fleche((87, 69), (112, 102), RED), pastille(130, 116, 'tour basal', RED)]),
 }
+
+# tracés de l'auteur relevés sur ses planches (positions inchangées, seulement lissés)
+TRACES_OUVERTE = json.load(open(os.path.join(RACINE, 'scripts', 'donnees', 'cholesteatome-traces-auteur.json'), encoding='utf-8'))
+def traces_ouverte(nom):
+    out = []
+    for t in TRACES_OUVERTE[nom]:
+        col = {'orange': ORANGE, 'bleu': BLUE}.get(t['c'], VERT)
+        if 'point' in t: out.append(f'<circle cx="{t["point"][0]}" cy="{t["point"][1]}" r="3" fill="{col}" stroke="#000" stroke-opacity=".5"/>')
+        else: out.append(trace([tuple(p) for p in t['pts']], col, ferme=t.get('ferme', False), w=3))
+    return out
+FIG['tegmen-tdm-1'] = ('Extension labyrinthique au canal semi-circulaire latéral (tracé de l\'auteur)', traces_ouverte('tegmen-tdm-1') + [pastille(114, 150, 'extension au CSC', ORANGE)])
+FIG['tegmen-tdm-2'] = ('Extension au tegmen (tracé de l\'auteur)', traces_ouverte('tegmen-tdm-2') + [pastille(108, 9, 'extension au tegmen', BLUE)])
+FIG['technique-ouverte-1'] = ('Technique ouverte : cavité d\'évidement pétro-mastoïdienne (vert)', traces_ouverte('technique-ouverte-1') + [pastille(60, 100, 'cavité d\'évidement', VERT)])
+FIG['ossiculoplastie'] = (FIG['ossiculoplastie'][0], traces_ouverte('ossiculoplastie') + [pastille(70, 100, 'micro-caisse', ORANGE), pastille(160, 14, 'cavité d\'évidement', VERT)])
+FIG['technique-ouverte-2'] = ('Technique ouverte, autre plan : micro-caisse (orange) et cavité d\'évidement (vert)', traces_ouverte('technique-ouverte-2') + [pastille(70, 50, 'micro-caisse', ORANGE), pastille(100, 162, 'cavité d\'évidement', VERT)])
 
 def figure(nom, legende, credit=True, classe=''):
     w, h = TAILLES[nom]

diff --git a/README.md b/README.md
@@ -833,6 +833,7 @@ Les tests n'utilisent que des **cas fictifs** (identifiants `TEST-0001`…) : au
 
 | Date | Modification |
 |---|---|
+| 26/10/2026 | Cholestéatome : encadré **« BDE (branche descendante de l'enclume) : zone la plus fragile, atteinte même en cas d'OMC non cholestéatomateuse »** avec deux clichés (pré-lyse, discontinuité) ; technique ouverte : tracés de l'auteur repris tels quels et lissés, **micro-caisse en orange** et **cavité d'évidement pétro-mastoïdienne en vert** (« prothèse » retiré), 3e cliché ajouté ; technique fermée (2 clichés) et plastie du tegmen : images de l'auteur avec ses propres traits, seules les étiquettes sont aux couleurs du site ; extension au CSC et au tegmen : lignes de l'auteur au même endroit, simplement affinées (`scripts/donnees/cholesteatome-traces-auteur.json`) |
 | 26/10/2026 | Cholestéatome, figure du rétrotympanum : **trait continu** récessus du facial (bleu) → éminence pyramidale (ambre) → sinus tympani (orange), sans coupure aux changements de couleur (primitive `chaine` de `scripts/cholesteatome_figures.py`) |
 | 26/10/2026 | Cholestéatome : figure du **rétrotympanum** refaite à partir des délimitations exactes de la planche de l'auteur (récessus du facial, éminence pyramidale avec le muscle stapédien à son sommet, sinus tympani), redessinées aux couleurs du site |
 | 26/10/2026 | Fiches rapides › Tête et cou : nouvelle fiche **« Otospongiose : la TDM des rochers »** d'après la fiche de l'auteur (source au dépôt privé), sans cliché pour l'instant : schémas interactifs (Veillon sur coupe axiale, Fraysse, canal facial procident, fenêtre ovale, audiogramme), outil de classement du foyer, compte rendu guidé, entraînement, coupes de **0,5 mm** ; `regles/otospongiose.js`, `tests/otospongiose.test.js` (4 tests) ; vérifié dans Chromium (1366 et 390 px) |
